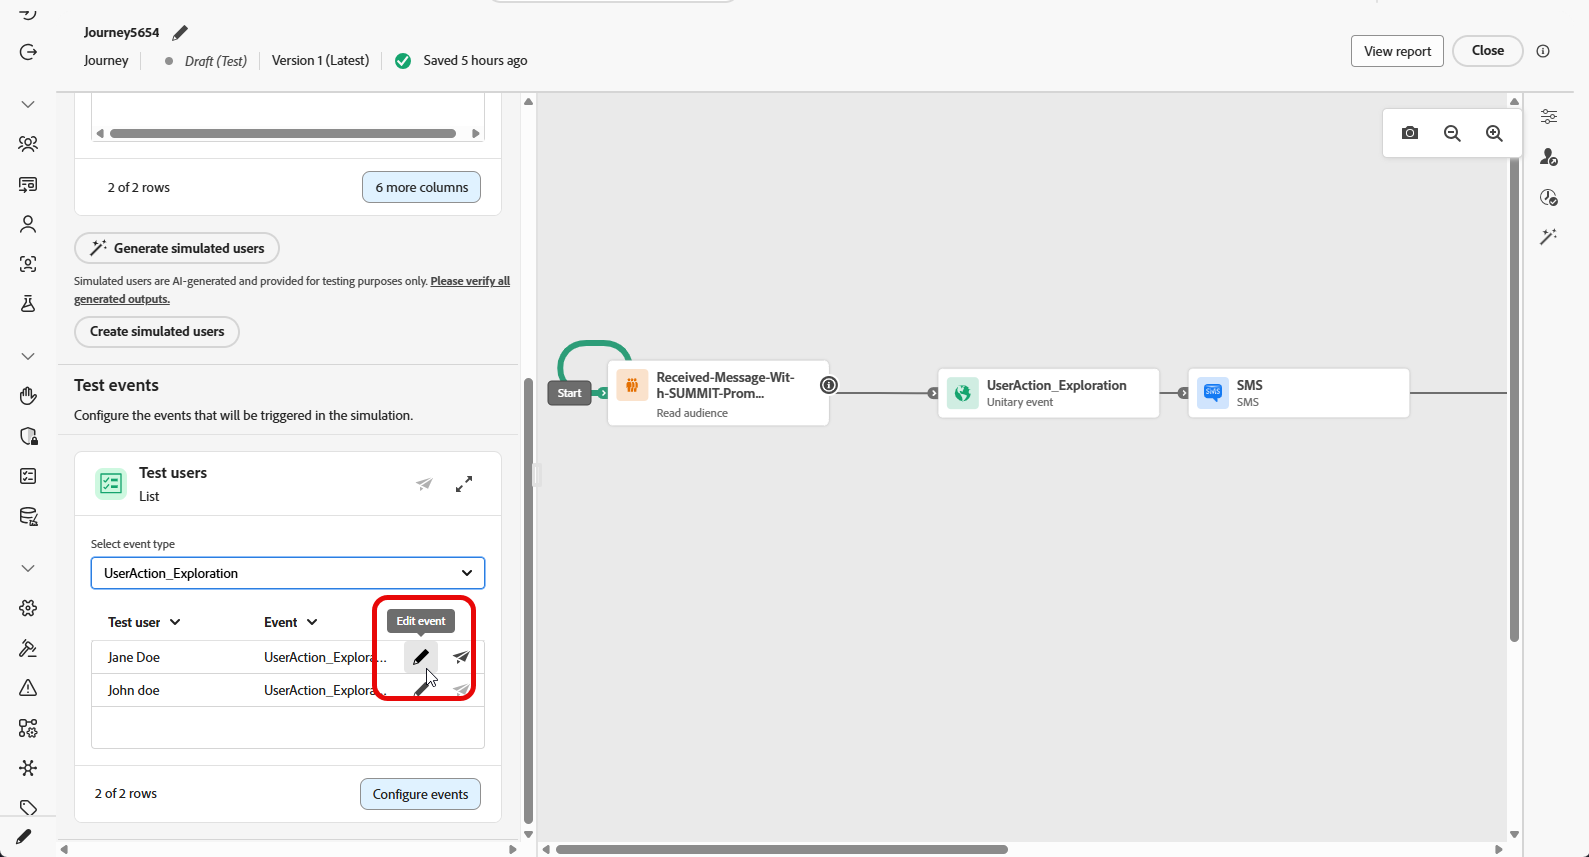
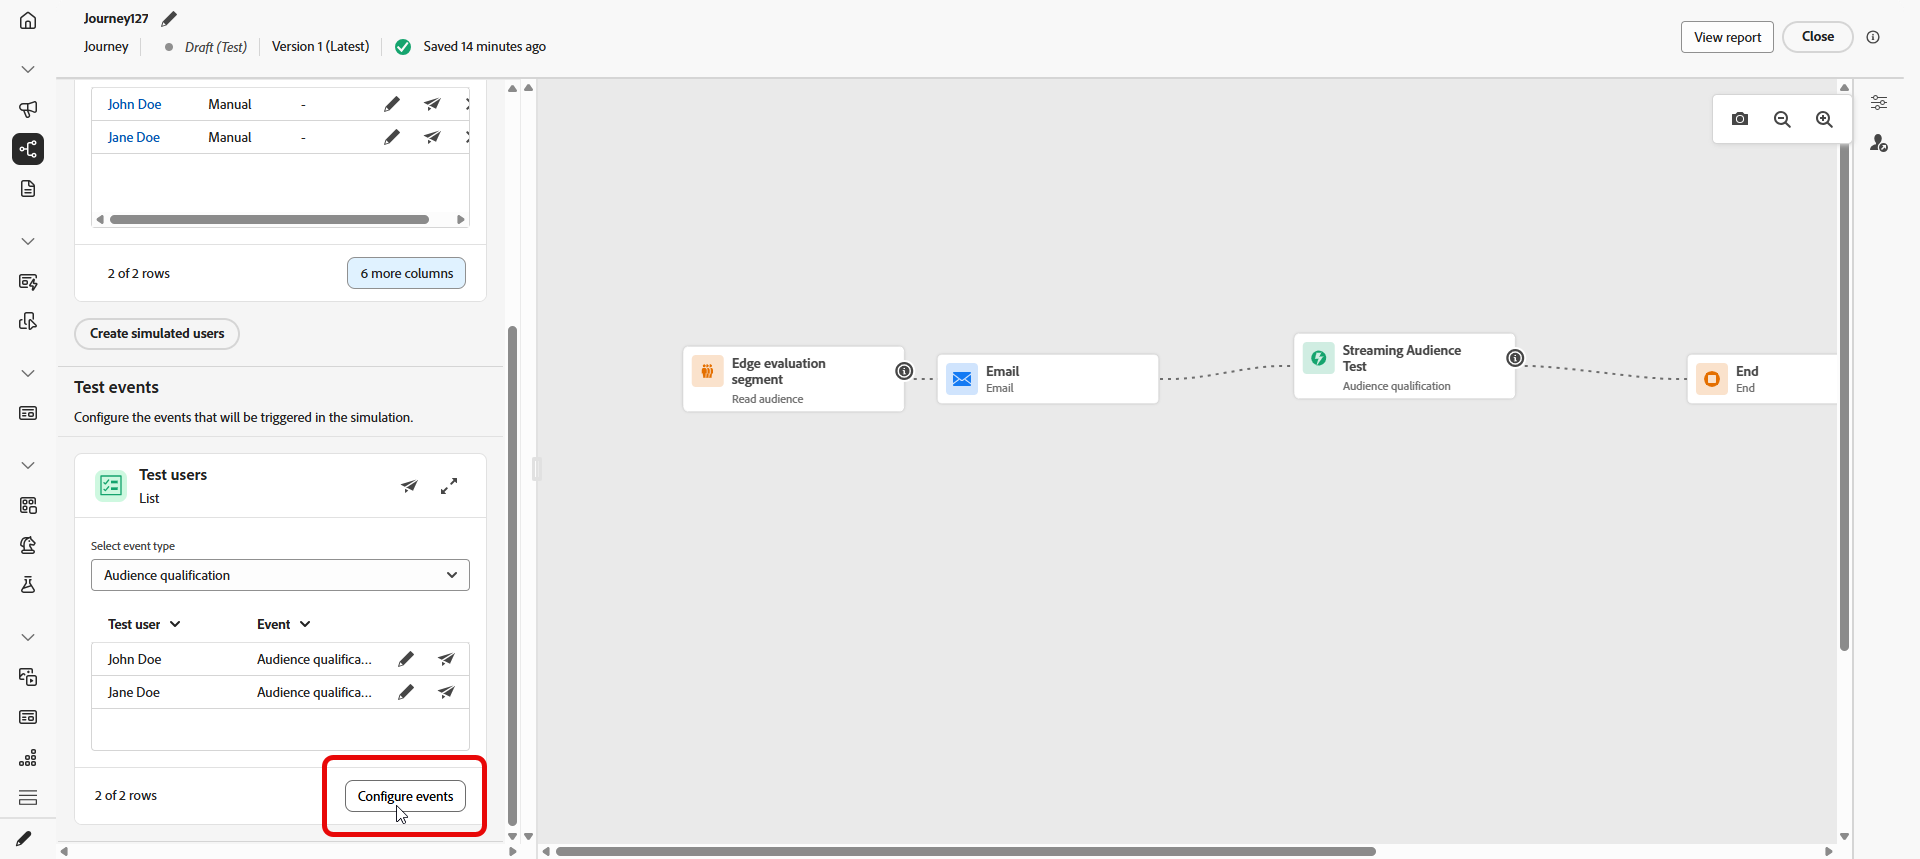
feedbacks

diff --git a/help/using/building-journeys/simulate-journey.md b/help/using/building-journeys/simulate-journey.md
@@ -125,17 +125,17 @@ If your journey includes one or more events, you can trigger them while Simulati
 
     ![Event configuration interface with fields and drop-down for event selection](assets/simulate-10.png)
 
-1. Click ![Edit event](assets/do-not-localize/Smock_Edit_18_N.svg) to adjust the event for this simulated user.
+1. Click **[!UICONTROL Configure events]** to open the editor and adjust the event as needed. To change the payload for a specific simulated user only, click ![Edit event](assets/do-not-localize/Smock_Edit_18_N.svg) beside that user.
 
     ![Event configuration interface with fields and drop-down for event selection](assets/simulate-9.png)
 
-1. From your simulated user drop-down, select the simulated user and finish configuring the event and how it is generated.
+1. In the **[!UICONTROL Trigger event]** view, specify which simulated users to include in the execution. Event configuration applies to a single event at a time. Modifying the selected event or the set of included users resets previously entered field values. Complete the current configuration before changing either selection.
 
-    ![Event configuration interface with fields and drop-down for event selection](assets/simulate-8.png)
+    ![Event configuration with Test users list and event fields](assets/simulate-8.png)
 
-1. Click **[!UICONTROL Trigger selected events]**. 
-    
-    A `Events triggered successfully` confirmation message appears when the simulated users successfully enter the journey.
+1. Click **[!UICONTROL Done]**. 
+
+1. Then, in **[!UICONTROL Test events]**, either select **[!UICONTROL Send all]** to send every simulated user listed under **[!UICONTROL Test users]** into the journey, or select ![Send icon](assets/do-not-localize/Smock_Send_18_N.svg) for a single user to execute the simulation for that user only.
 
 1. Access the **[!UICONTROL Results]** tab to open the execution log and review how each step ran. For more information, see [View Results](#viewing-results).
 
